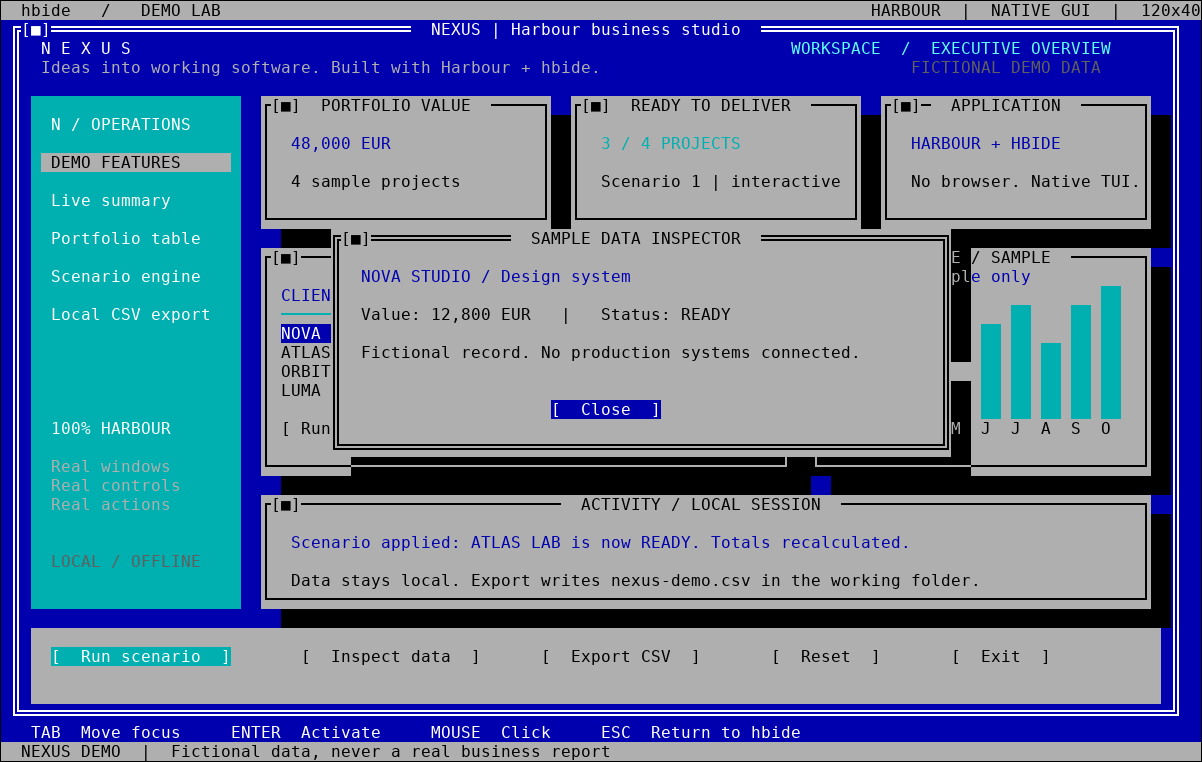
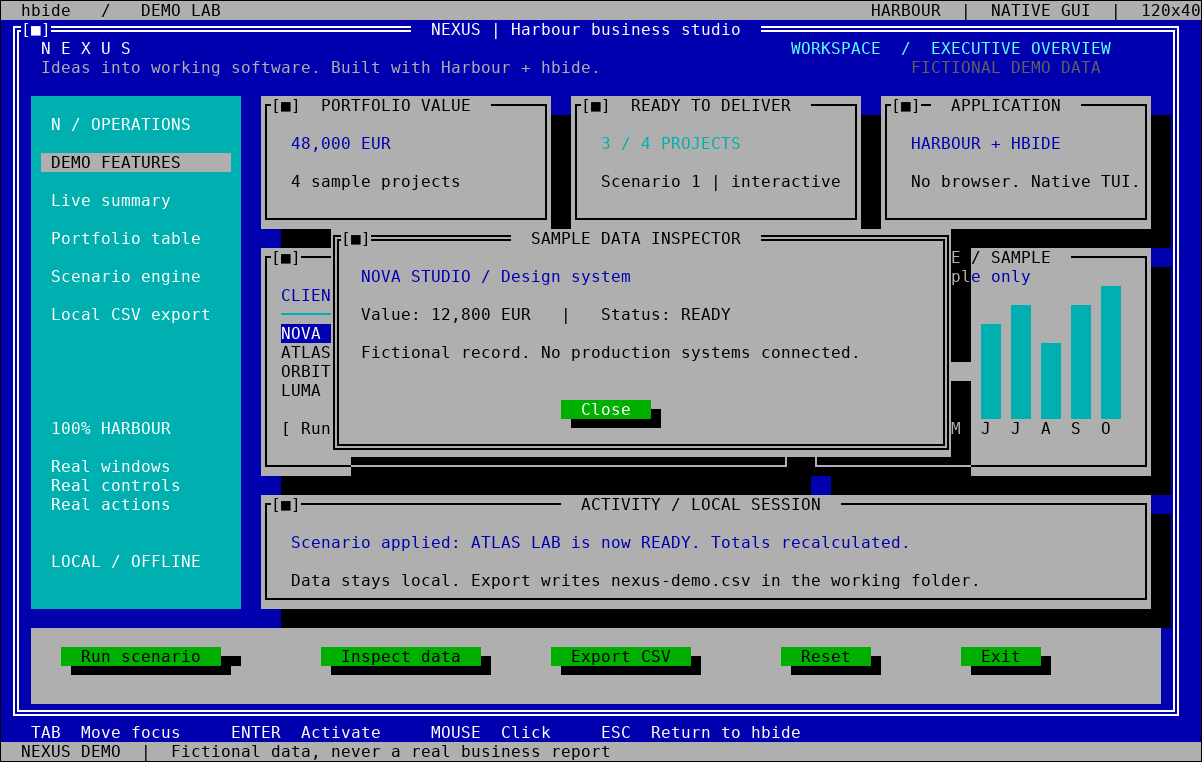
fix(demo): restore native green shadow buttons and crisp script glyphs

diff --git a/docs/COMPLETION_LOG.md b/docs/COMPLETION_LOG.md
@@ -2812,3 +2812,9 @@ scenario/inspect/export/reset/return and standalonebuild checked.
 Firstpreviewhalfblockmojibake fixed by demo-only native[]buttonstyle;
 no coreGUI modification. Full screenshot/pixels inspected. Ledger
  docs/evidence/nexus-demo/. Not globalIDE/Windowsacceptance or release.
+
+NEXUS finish revision before user delivery: native green shadowedbuttons,
+no brackets; white-on-teal sidebar contrast. RealScript requires demoUTF8
+SetDispCP plus escapedchartglyphs, restoredhostCP onexit. No coremutation,
+no methodoverride. Retested Enter/mouse/modal/export/reset/return and
+standalonebuild; final fullpixels inspected. Supersedes[]previewevidence.
